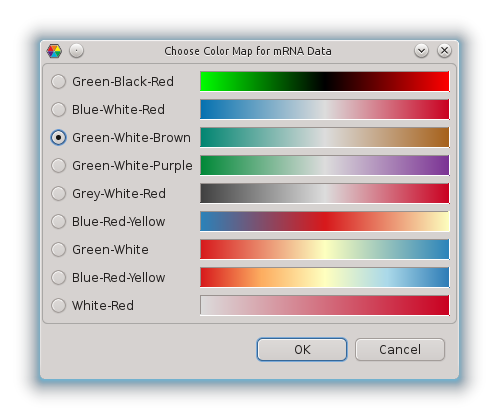
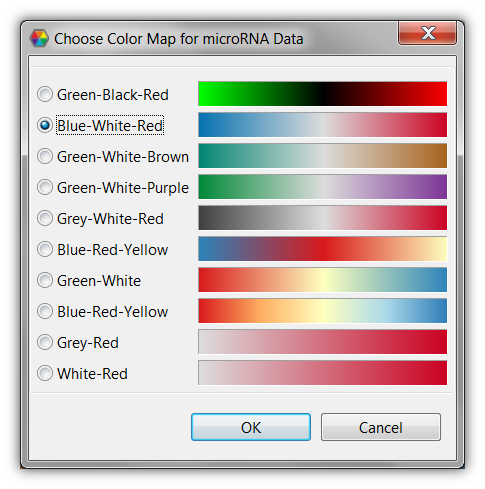
updated dataset info, selection info, and search view

diff --git a/basics.md b/basics.md
@@ -15,29 +15,27 @@ Caleydo uses views as interfaces to the user. Nearly everything in Caleydo is a 
 [](include:views/dvi.md)
 
 ## Dataset Info
-The DataSet Info view shows you meta-data about the selected dataset. The content of this view is exchanged whenever you click on data from different datasets. The dialog shows you some information on the dataset plus the distribution in a histogram, which also is a legend of the color-coding of the dataset at the same time.
+The DataSet Info view shows you meta-data about the selected dataset. The content of this view is exchanged whenever you click on data from different datasets. The view consists of several parts, showing general information about the dataset such as the number of rows and columns, information about processing applied to data like scaling, dataset stats including mean value and standard deviation, and, if you have selected a perspective of the dataset, information about this perspective. This view also shows the data distribution in a histogram, which also is a legend of the color-coding of the dataset at the same time.
 ![](i/color_chooser.png "Color Chooser GUI")
 ![](i/dataset_info.png "Dataset Info GUI")
 
 You can **modify the color coding** by dragging the bars at the sides of the histogram.
 
-If you want to use a completely different color-coding you can double-click on the color-legend bar below the histogram, which presents you with the options seen in the lower picture.
+If you want to use a completely different color-coding you can click on the Colormap button below the histogram, which presents you with different options for color coding your data.
 
 ## Selection Info
-The Selection Info view shows information about the currently selected elements. Whenever you mouse-over or click an element in any of the Caleydo views it is added to the selection info view. Dark-orange shows clicked and light orange shows mouse-hovered elements. It is possible to select multiple items, also multiple items of different types of data. In the example on the right a couple of sample variables and a clinical variable is selected.
+The Selection Info view shows information about the currently selected elements. Whenever you mouse-over or click an element in any of the Caleydo views it is added to the selection info view. Dark-orange shows clicked and light orange shows mouse-hovered elements. It is possible to select multiple items, also multiple items of different types of data. In the shown example one gene and one sample has been clicked, and also one additional sample has been mouse-overed. You can also copy the identifiers of selections to the clipboard using the button in the selection info's toolbar. If a gene has been selected, you can search for this gene in [GeneCards](http://www.genecards.org/) by clicking on the corresponding button in the toolbar.
 ![](i/selection_info.png "Selection Info GUI")
 
-You can **clear all selections** by clicking on the "Clear All Selections" button in the toolbar.
+You can **clear all selections** by clicking on the "Clear All Selections" button in the general toolbar.
 
 ## Search
-The search view is currently limited to searching genes and pathways. This will change in future releases, where arbitrary IDs can be searched for.
+In the search view you can search for any ids in all loaded datasets.
 ![](i/search.png "Search GUI")
 
-To search for a gene or a pathway map simply type a string into the query box and press search. You can exclude certain ID Types by un-checking them. If your search returned results they are presented to you in a table. The first columns of this table tells you whether this gene is available in the dataset specified in the caption. In the example in the figure on the right, the gene in the first line is available in the mRNA and the copy-number dataset, but not in the mutation status dataset.
+To search for an id, simply type a string into the query box and press search. You can exclude certain identifiers by un-checking them. If your search returned results they are presented to you in a table. The first columns of this table tell you whether the id was found in the dataset specified in the caption. In shown figure the gene of the first row is available in all datasets but RPPA.
 
-If a pathway matches your query, or a pathway contains a selected gene you can directly open it via the context menu.
-
-An important feature of the search dialog is it's ability to **create categorizations based on genes**. This means that a new grouping (and perspective) can be created based on an individual gene. By right-clicking on a row in the search results you get the options to create categorizations for the various datasets. Currently that makes most sense for copy-number and mutation status data. Support for other data types will be added in the future. Clicking, for example, on the "Create categorization of Mutation Status" will result in a perspective being created with two groups: one containing all mutated samples, and another one containing all normal samples.
+An important feature of the search view is it's ability to **create categorizations based on genes**. This means that a new grouping (and perspective) can be created based on an individual gene. By right-clicking on a row in the search results that corresponds to a gene, you get the options to create categorizations for the various datasets. Currently that makes most sense for copy-number and mutation status data. Clicking, for example, on the "Create categorization within Mutations" will result in a perspective being created with two groups: one containing all mutated samples, and another one containing all normal samples.
 
 [](include:views/table.md)
 [](include:views/parcoords.md)
